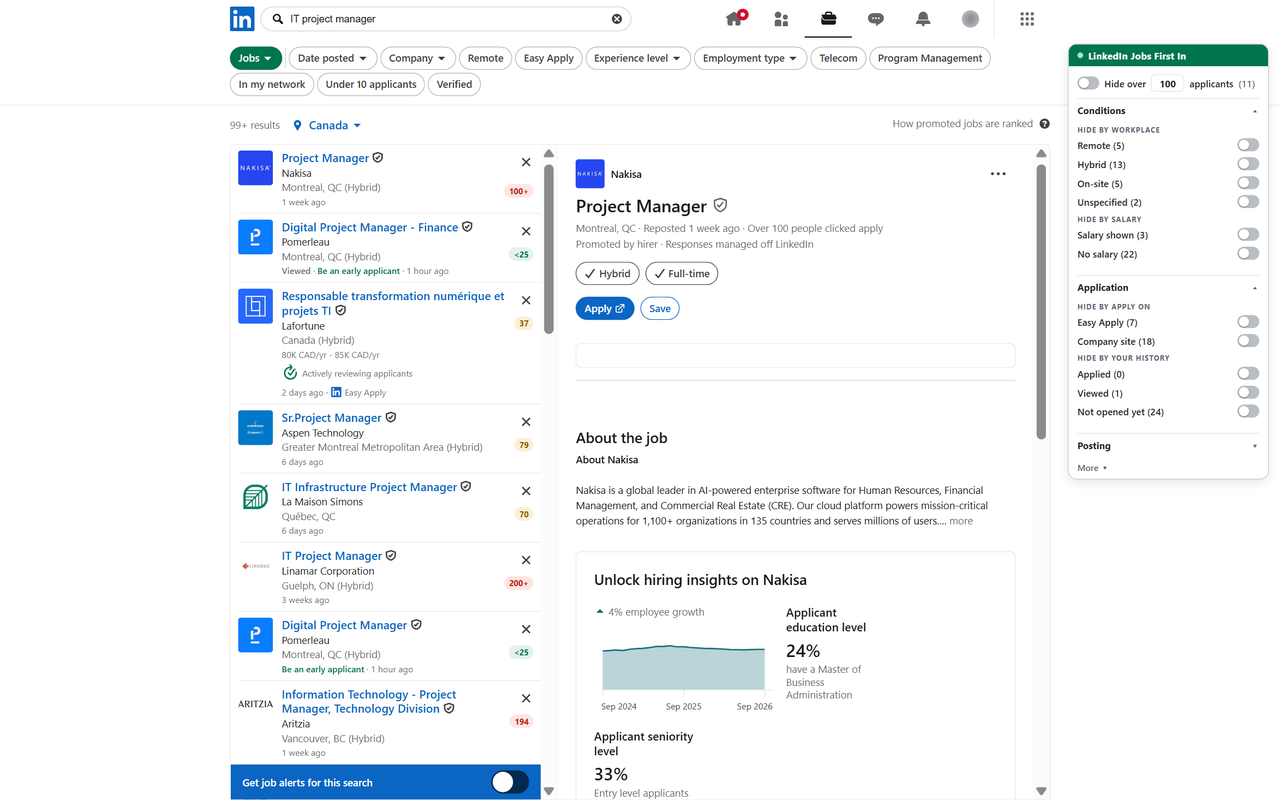
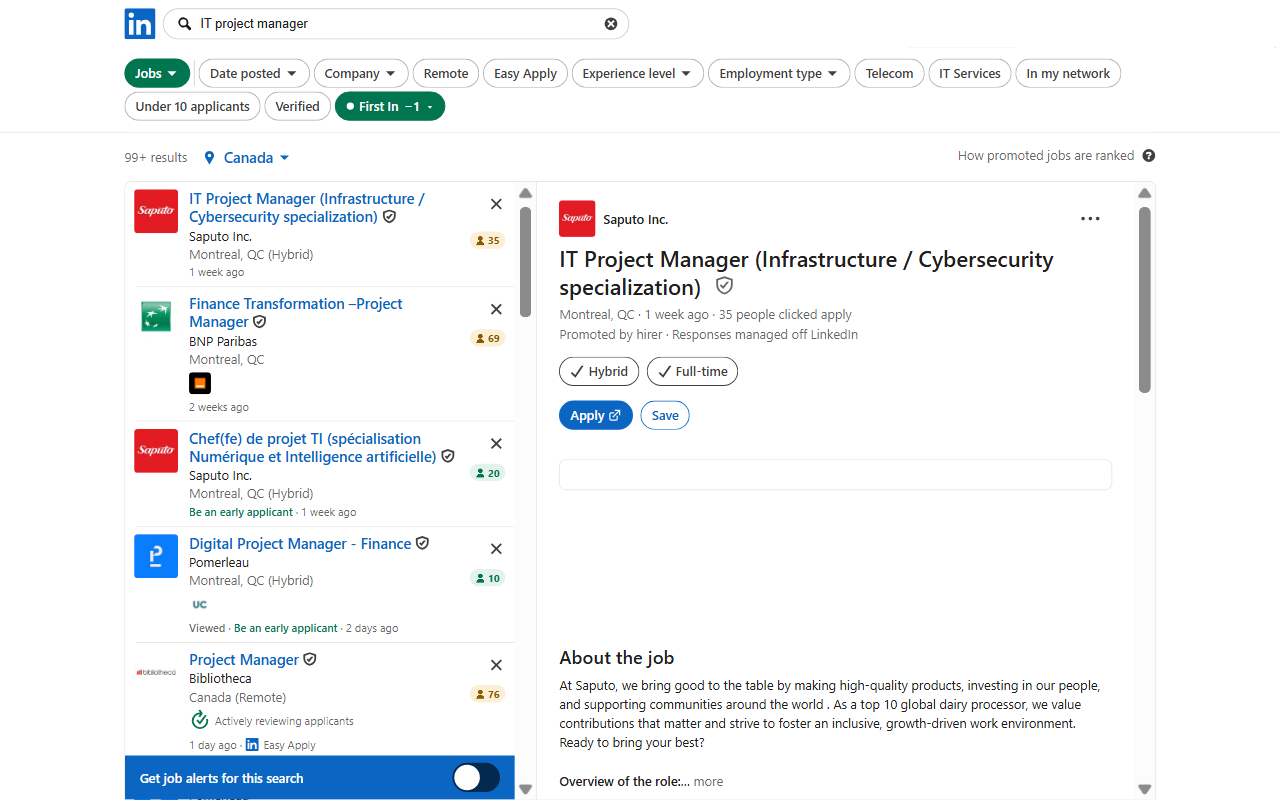
Describe 2.9: filter-row chip, current filter set, Copy, refund terms

diff --git a/privacy.html b/privacy.html
@@ -10,12 +10,12 @@ p{margin:0 0 12px;max-width:65ch}.lede{font-size:19px;color:var(--dim)}ul{paddin
 .note{background:var(--bg);border-radius:10px;padding:14px 16px;max-width:65ch}
 footer{border-top:1px solid var(--line);color:var(--dim);font-size:14px;padding-block:18px}a{color:var(--g)}
 </style></head><body><header><div class="wrap"><a class="brand" href="index.html">First In</a><nav><a href="index.html">Home</a><a href="support.html">Support</a><a href="privacy.html">Privacy</a></nav></div></header><main class="wrap"><h1>Privacy policy</h1>
-<p>Last updated 2026-10-02. Describes version 2.0.</p>
+<p>Last updated 2026-10-04. Describes version 2.9.</p>
 <h2>What the extension reads</h2>
-<p>On LinkedIn job search pages it reads the job cards already on your screen (title line, location line, labels such as &quot;Easy Apply&quot; or &quot;Viewed&quot;) and the applicant count of each job. To get a count it requests that job&#x27;s page from linkedin.com - LinkedIn&#x27;s public job page first, and your signed-in job page only when the public one gives no exact number.</p>
+<p>On LinkedIn job search pages it reads the job cards already on your screen (title line, location line, labels such as &quot;Easy Apply&quot; or &quot;Viewed&quot;) and the applicant count of each job. To get a count it requests that job&#x27;s page from linkedin.com - LinkedIn&#x27;s public job page first, and your signed-in job page only when the public one gives no exact number. When you press Copy on a job, it requests that job's public page once more to copy its description to your clipboard.</p>
 <h2>What it stores</h2>
 <p>In your browser only (Chrome&#x27;s extension storage):</p>
-<ul><li>the applicant count last read for each job, with the time it was read;</li><li>whether LinkedIn marked that job promoted or reposted;</li><li>your filter settings;</li><li>the times of its own recent requests, to stay under LinkedIn&#x27;s rate limit.</li><li>the date the extension was first used (for the 7-day trial of the filters) and whether the filters are unlocked.</li></ul>
+<ul><li>the applicant count last read for each job, with the time it was read;</li><li>whether LinkedIn marked that job promoted or reposted;</li><li>your filter settings;</li><li>the times of its own recent requests, to stay under LinkedIn&#x27;s rate limit.</li><li>the date you first opened a LinkedIn job search with the extension (for the 7-day trial of the filters) and whether the filters are unlocked.</li></ul>
 <h2>What it sends, and to whom</h2>
 <p>Nothing about your LinkedIn activity is sent to the developer or to anyone else. The job counts, your filters and your settings never leave your browser. There are no analytics and no advertising.</p>
 <p>The extension contacts two sites:</p>

diff --git a/support.html b/support.html
@@ -16,14 +16,16 @@ footer{border-top:1px solid var(--line);color:var(--dim);font-size:14px;padding-
 <li>Check you are on a job search results page (the address contains /jobs/search).</li>
 <li>If a red notice says LinkedIn changed its page, the extension needs an update. Updates install by themselves, usually within a day.</li></ul>
 <h2>A badge shows &lt;25 instead of a number</h2>
-<p>LinkedIn did not give an exact count for that job yet. Open More in the box and press Check, or open the job.</p>
+<p>LinkedIn did not give an exact count for that job yet. Click the First In chip in LinkedIn's filter row and press Check at the top of the menu, or open the job.</p>
 <h2>The box says "pacing the reads"</h2>
 <p>LinkedIn allows about 20 job pages a minute per account. First In waits rather than go over, so the last counts on a busy page can take up to a minute.</p>
 <h2>The filters are greyed out</h2>
-<p>Your LinkedIn is in a language First In does not read yet. It reads English, French, Spanish and German. Applicant counts work in every language.</p>
+<p>Either the 7-day free trial of the filters has ended (the menu says so, and one payment unlocks them), or your LinkedIn is in a language First In does not read yet. It reads English, French, Spanish and German. Applicant counts work in every language, and stay free.</p>
 <h2>Promoted or Reposted says "Not known yet"</h2>
 <p>LinkedIn only shows these on the job's own page. A job moves out of "Not known yet" once you open it.</p>
 <h2>I paid but the filters are still locked</h2>
 <p>Go back to the LinkedIn tab and refresh it. If you paid on another browser or reinstalled, click "Already paid? Restore" in the box and enter the email you paid with.</p>
+<h2>Refunds</h2>
+<p>Every filter is free to use for 7 days before you pay, so you can try everything you are buying first. For that reason the one-time unlock is final and is not refunded.</p>
 <h2>Still stuck</h2>
 <div class="note">Write to <strong>mirow.bek@gmail.com</strong> with the address of the LinkedIn page and what you see. A screenshot helps.</div></main><footer><div class="wrap">Not affiliated with, endorsed by or sponsored by LinkedIn Corporation.</div></footer></body></html>

diff --git a/index.html b/index.html
@@ -15,7 +15,7 @@ footer{border-top:1px solid var(--line);color:var(--dim);font-size:14px;padding-
 <h2>What it does</h2>
 <ul><li>Applicant count on every job card: green under 25, amber 25 to 100, red over 100.</li>
 <li>Hide every job over the limit you choose.</li>
-<li>Filter by workplace, salary shown or not, Easy Apply or company site, and jobs you already viewed or applied to.</li>
+<li>Hide jobs you already applied to or viewed, promoted and reposted jobs, Easy Apply jobs, and jobs with or without a salary.</li>
 <li>Promoted and reposted jobs are marked as LinkedIn reveals them.</li>
 <li>Every filter shows how many jobs on the page it concerns.</li></ul>
 <h2>What it does not do</h2>
